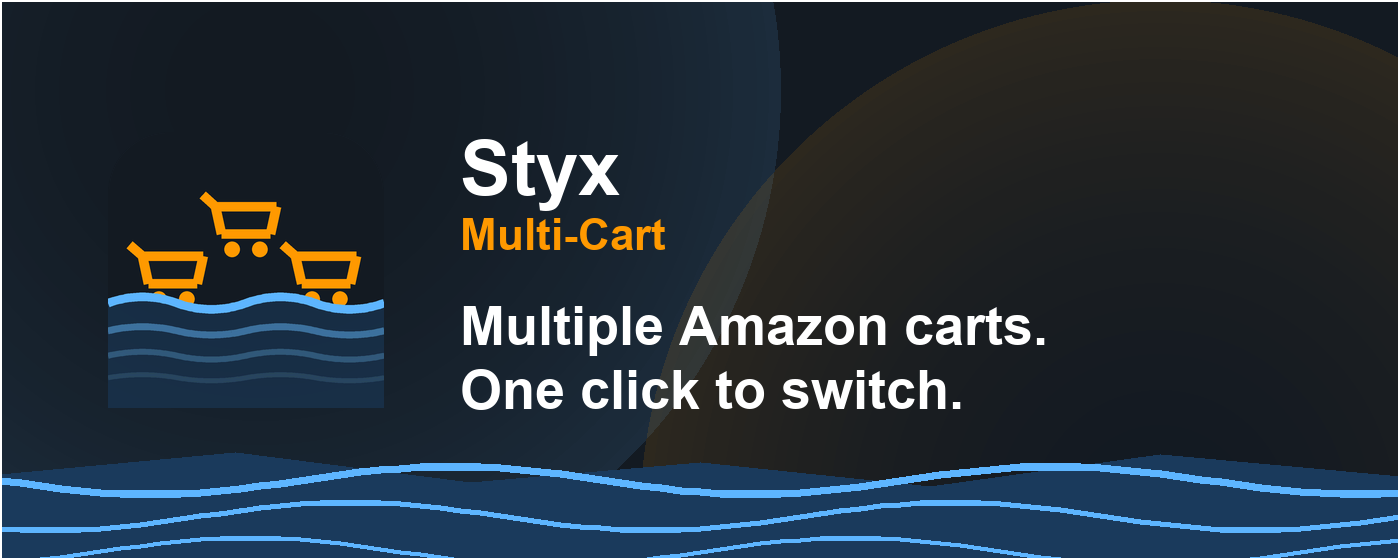
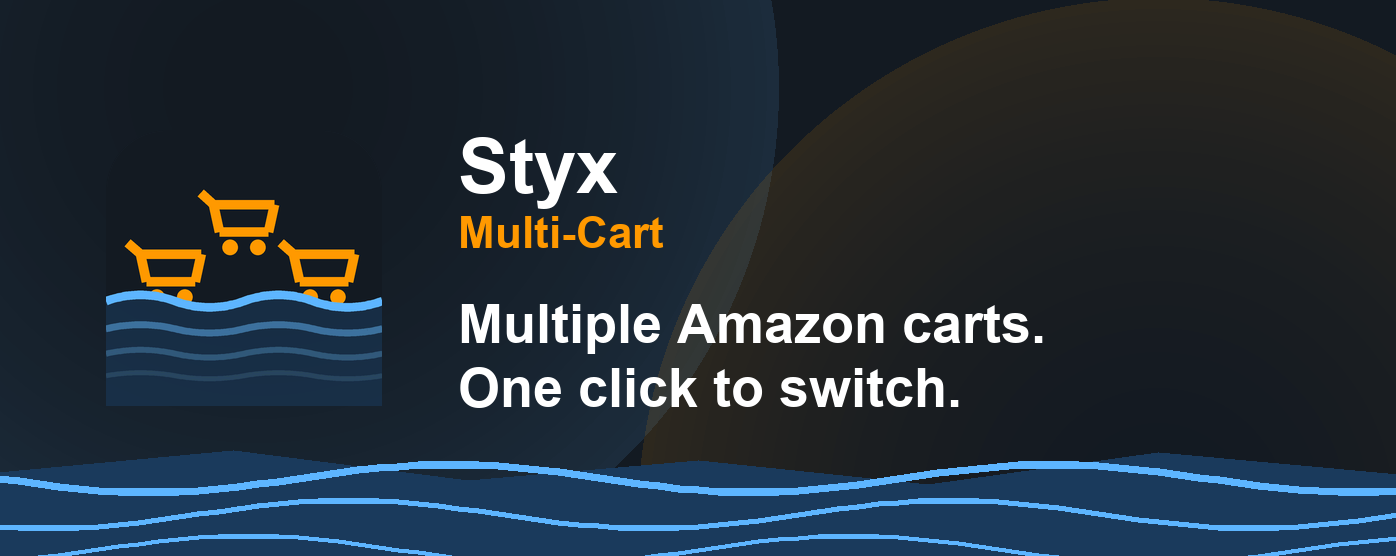
Steps improved

diff --git a/docs/index.html b/docs/index.html
@@ -74,15 +74,16 @@
           </div>
           <p class="cta-note">
             Chrome Web Store listing pending review · Works on Chrome, Edge,
-            Brave, Arc &amp; other Chromium browsers · Safari supported
+            Brave, Arc &amp; other Chromium browsers · Safari support coming
+            soon
           </p>
         </div>
         <div class="hero-art">
           <img
             src="assets/promo-1400x560.png"
             alt="Styx Multi-Cart — multiple Amazon carts, one click to switch"
-            width="1400"
-            height="560"
+            width="1396"
+            height="556"
             loading="eager"
           />
         </div>
@@ -145,50 +146,16 @@
           <div class="showcase-img">
             <img
               src="assets/screenshots/01-popup.png"
-              alt="Amazon cart shown beside the Styx side panel, listing two saved carts"
+              alt="Amazon cart shown beside the Styx side panel, listing saved carts with a Save button"
             />
           </div>
           <div class="showcase-text">
             <span class="step">Step 1</span>
-            <h3>Your carts, at a glance</h3>
+            <h3>Save your cart, give it a name</h3>
             <p>
-              Open the side panel next to your Amazon cart to see every saved
-              cart — name, item count, and total — without leaving the page.
-            </p>
-          </div>
-        </div>
-
-        <div class="showcase-row reverse">
-          <div class="showcase-img">
-            <img
-              src="assets/screenshots/02-switchCart.png"
-              alt="Confirmation dialog asking 'Switch to this cart?' before replacing the active Amazon cart"
-            />
-          </div>
-          <div class="showcase-text">
-            <span class="step">Step 2</span>
-            <h3>Switch carts without losing your place</h3>
-            <p>
-              Pick a saved cart and Styx asks for confirmation before swapping
-              it in — your current cart is replaced safely, with no surprises.
-            </p>
-          </div>
-        </div>
-
-        <div class="showcase-row">
-          <div class="showcase-img">
-            <img
-              src="assets/screenshots/03-clickToAdd.png"
-              alt="Callout highlighting the 'Add to Cart' button on an Amazon product page, intercepted by Styx"
-            />
-          </div>
-          <div class="showcase-text">
-            <span class="step">Step 3</span>
-            <h3>Add to cart, your way</h3>
-            <p>
-              Styx steps in right when you click <strong>Add to Cart</strong> on
-              Amazon, so new items can be routed to the saved cart you're
-              building — not just your live cart.
+              Open Styx next to your Amazon cart, type a name like "Birthday
+              gifts" or "Office supplies," and click <strong>Save</strong> —
+              everything in your current cart is snapshotted instantly.
             </p>
           </div>
         </div>
@@ -197,16 +164,52 @@
           <div class="showcase-img">
             <img
               src="assets/screenshots/04-intercept.png"
-              alt="Picker modal asking which saved cart to add the item to, shown over the Amazon product listing"
+              alt="Picker modal showing saved carts plus a 'Create new cart' option, used to start a second Styx cart"
+            />
+          </div>
+          <div class="showcase-text">
+            <span class="step">Step 2</span>
+            <h3>Clear it and start a second cart</h3>
+            <p>
+              Clear your Amazon cart to shop for something else. Next time you
+              click Add to Cart, choose <strong>Create new cart</strong> in
+              Styx — your first cart stays exactly as you left it.
+            </p>
+          </div>
+        </div>
+
+        <div class="showcase-row">
+          <div class="showcase-img">
+            <img
+              src="assets/screenshots/02-switchCart.png"
+              alt="Confirmation dialog asking 'Switch to this cart?' before replacing the active Amazon cart"
+            />
+          </div>
+          <div class="showcase-text">
+            <span class="step">Step 3</span>
+            <h3>Switch between carts with one click</h3>
+            <p>
+              Pick any saved cart from the list and Styx asks you to confirm —
+              click <strong>Switch</strong> and that cart instantly replaces
+              what's in your Amazon cart.
+            </p>
+          </div>
+        </div>
+
+        <div class="showcase-row reverse">
+          <div class="showcase-img">
+            <img
+              src="assets/screenshots/03-clickToAdd.png"
+              alt="Callout highlighting the 'Add to Cart' button on an Amazon product page, intercepted by Styx"
             />
           </div>
           <div class="showcase-text">
             <span class="step">Step 4</span>
-            <h3>Pick exactly which cart gets the item</h3>
+            <h3>Add items straight to a specific cart</h3>
             <p>
-              Choose any saved cart from the picker and the item is filed there
-              — perfect for building out gift lists or project orders while you
-              keep browsing.
+              Browsing for a different cart? Click <strong>Add to Cart</strong>
+              as usual — Styx steps in and lets you route the item into any
+              saved cart, not just your live one.
             </p>
           </div>
         </div>

diff --git a/docs/assets/css/style.css b/docs/assets/css/style.css
@@ -181,9 +181,8 @@ img { max-width: 100%; height: auto; display: block; }
 }
 
 .hero-art img {
-  border-radius: 14px;
+  border-radius: 8px;
   box-shadow: 0 24px 64px rgba(0, 0, 0, 0.45);
-  border: 1px solid rgba(255, 255, 255, 0.08);
 }
 
 /* ---- Sections ---- */
